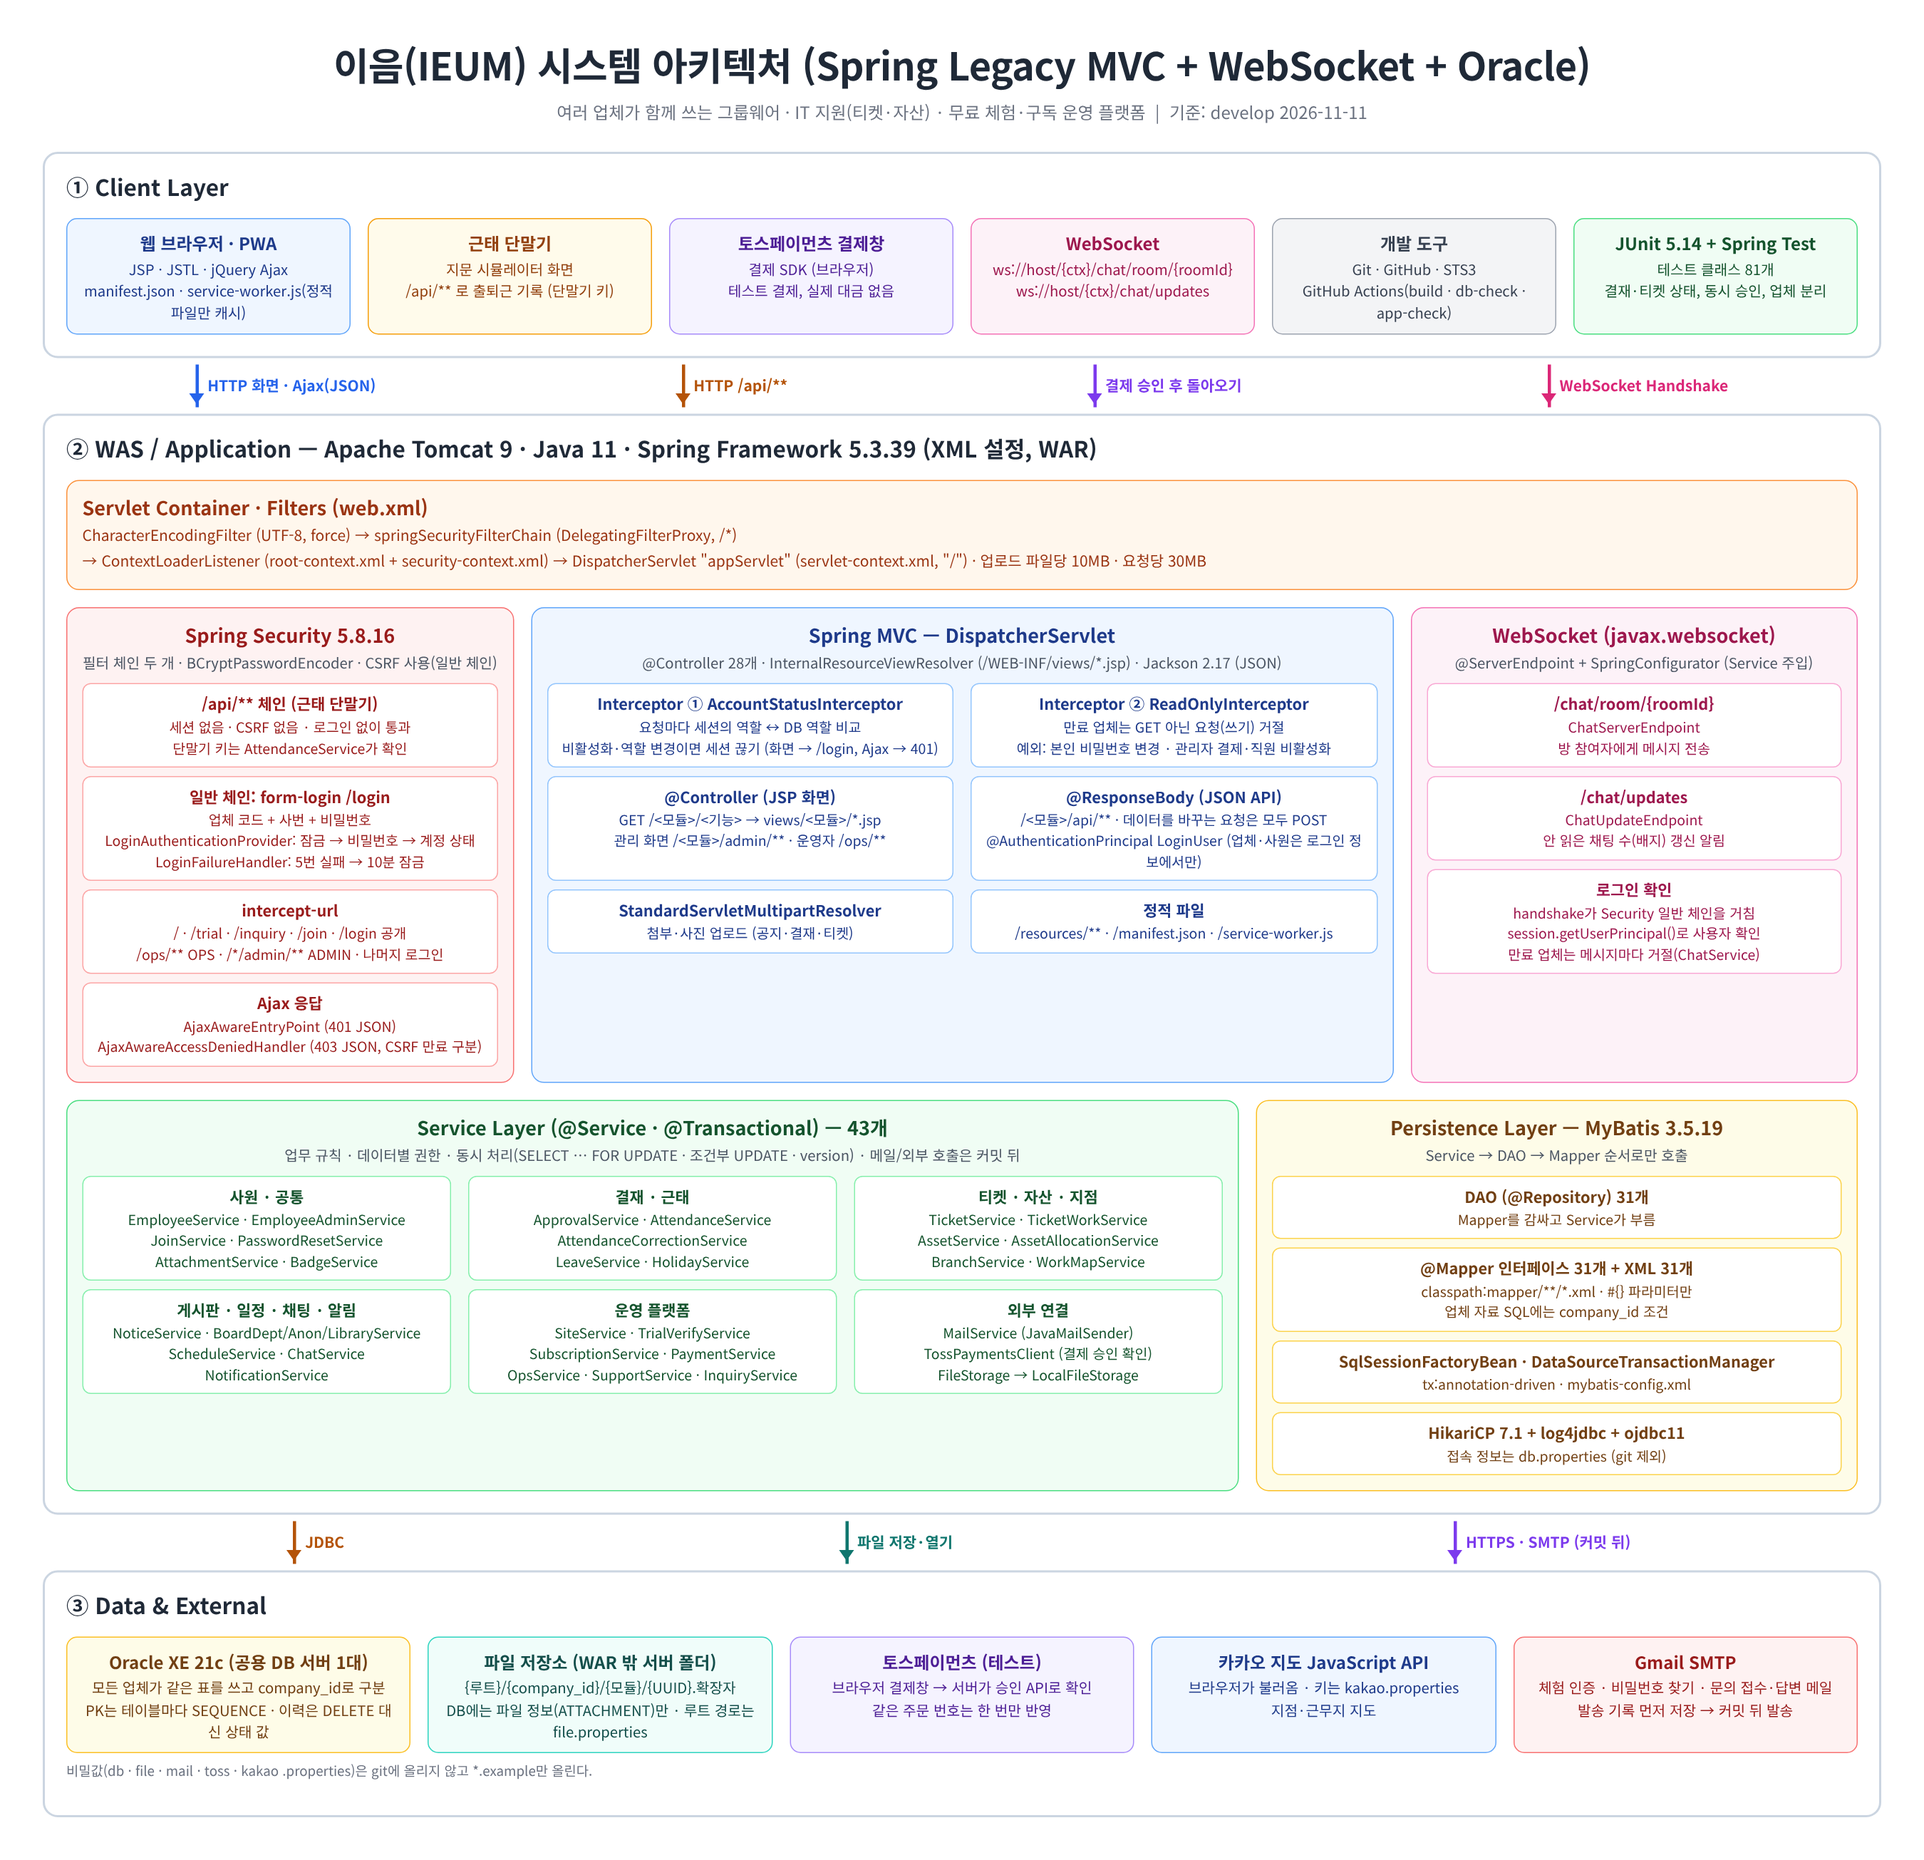
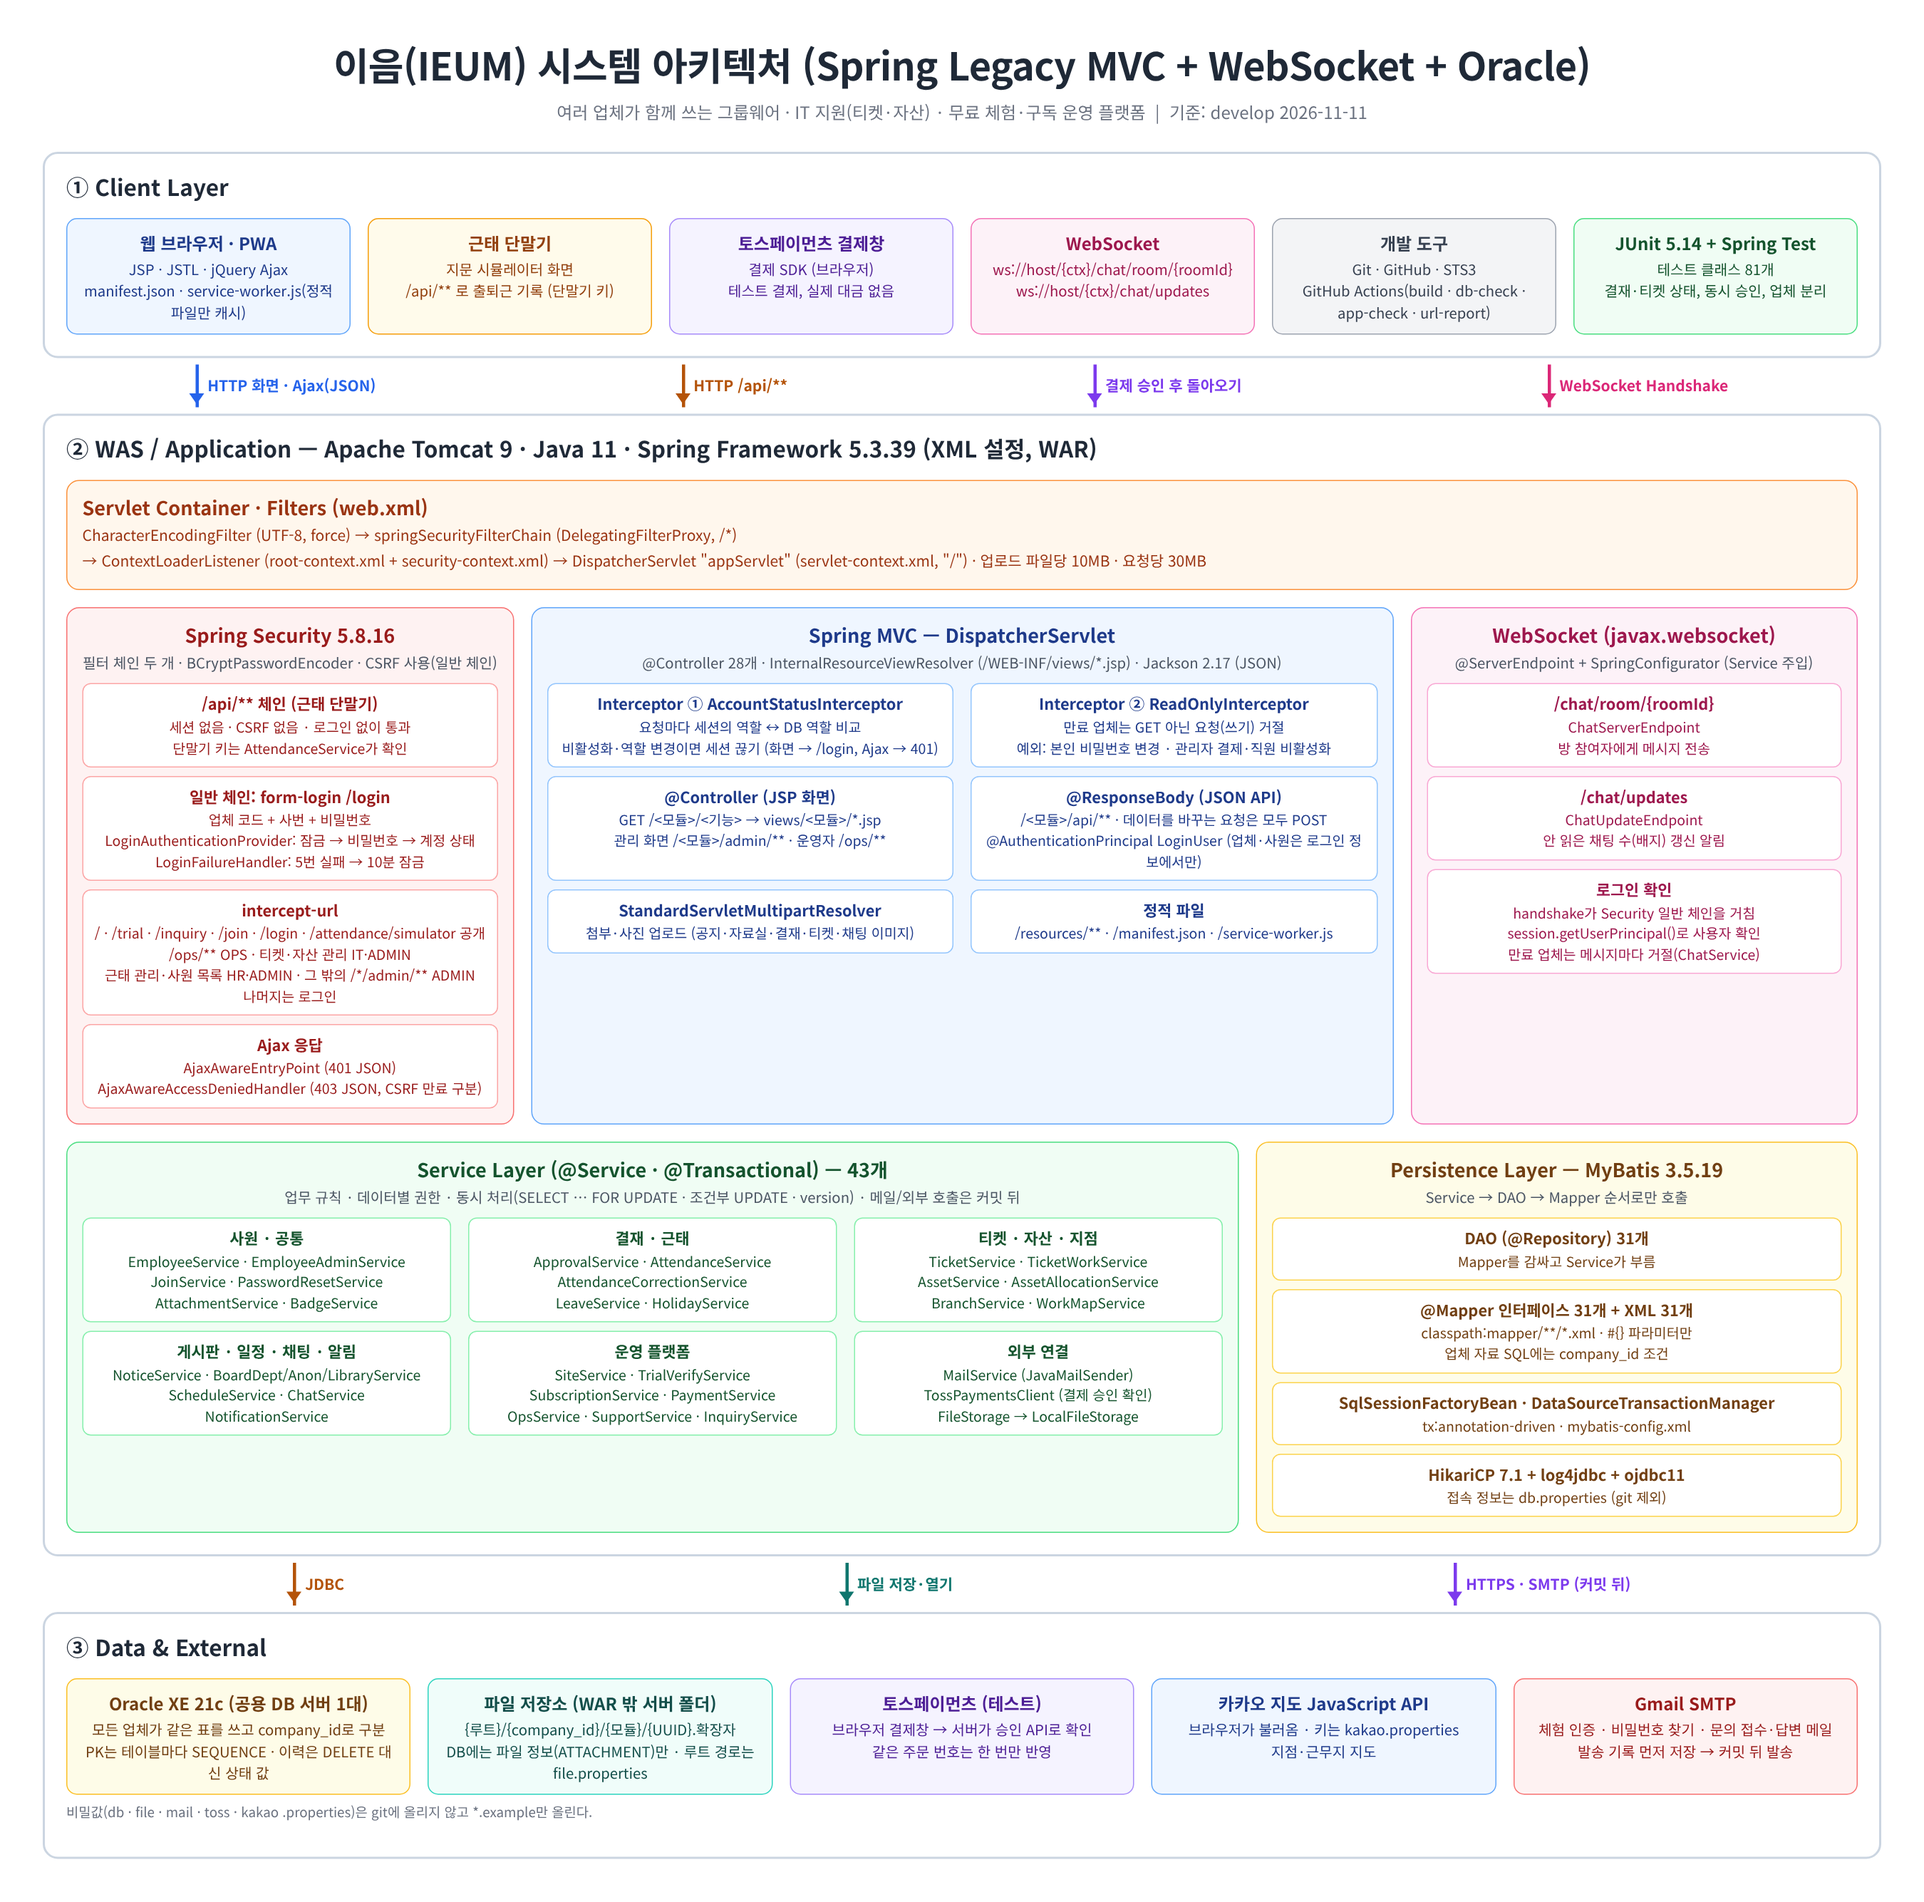
[docs] 상세 구성도 URL 권한·CI·업로드 칸 보완 (#229 리뷰 반영)

diff --git a/docs/8. 아키텍처/이음_아키텍처_상세.html b/docs/8. 아키텍처/이음_아키텍처_상세.html
@@ -57,7 +57,7 @@
     <div class="card yellow"><b>근태 단말기</b>지문 시뮬레이터 화면<br>/api/** 로 출퇴근 기록 (단말기 키)</div>
     <div class="card purple"><b>토스페이먼츠 결제창</b>결제 SDK (브라우저)<br>테스트 결제, 실제 대금 없음</div>
     <div class="card pink"><b>WebSocket</b>ws://host/{ctx}/chat/room/{roomId}<br>ws://host/{ctx}/chat/updates</div>
-    <div class="card gray"><b>개발 도구</b>Git · GitHub · STS3<br>GitHub Actions(build · db-check · app-check)</div>
+    <div class="card gray"><b>개발 도구</b>Git · GitHub · STS3<br>GitHub Actions(build · db-check · app-check · url-report)</div>
     <div class="card green"><b>JUnit 5.14 + Spring Test</b>테스트 클래스 81개<br>결재·티켓 상태, 동시 승인, 업체 분리</div>
   </div>
 </div>
@@ -89,7 +89,7 @@
       <div class="stack">
         <div class="in"><b>/api/** 체인 (근태 단말기)</b>세션 없음 · CSRF 없음 · 로그인 없이 통과<br>단말기 키는 AttendanceService가 확인</div>
         <div class="in"><b>일반 체인: form-login /login</b>업체 코드 + 사번 + 비밀번호<br>LoginAuthenticationProvider: 잠금 → 비밀번호 → 계정 상태<br>LoginFailureHandler: 5번 실패 → 10분 잠금</div>
-        <div class="in"><b>intercept-url</b>/ · /trial · /inquiry · /join · /login 공개<br>/ops/** OPS · /*/admin/** ADMIN · 나머지 로그인</div>
+        <div class="in"><b>intercept-url</b>/ · /trial · /inquiry · /join · /login · /attendance/simulator 공개<br>/ops/** OPS · 티켓·자산 관리 IT·ADMIN<br>근태 관리·사원 목록 HR·ADMIN · 그 밖의 /*/admin/** ADMIN<br>나머지는 로그인</div>
         <div class="in"><b>Ajax 응답</b>AjaxAwareEntryPoint (401 JSON)<br>AjaxAwareAccessDeniedHandler (403 JSON, CSRF 만료 구분)</div>
       </div>
     </div>
@@ -108,7 +108,7 @@
           <div class="in"><b>@ResponseBody (JSON API)</b>/&lt;모듈&gt;/api/** · 데이터를 바꾸는 요청은 모두 POST<br>@AuthenticationPrincipal LoginUser (업체·사원은 로그인 정보에서만)</div>
         </div>
         <div class="row">
-          <div class="in"><b>StandardServletMultipartResolver</b>첨부·사진 업로드 (공지·결재·티켓)</div>
+          <div class="in"><b>StandardServletMultipartResolver</b>첨부·사진 업로드 (공지·자료실·결재·티켓·채팅 이미지)</div>
           <div class="in"><b>정적 파일</b>/resources/** · /manifest.json · /service-worker.js</div>
         </div>
       </div>
